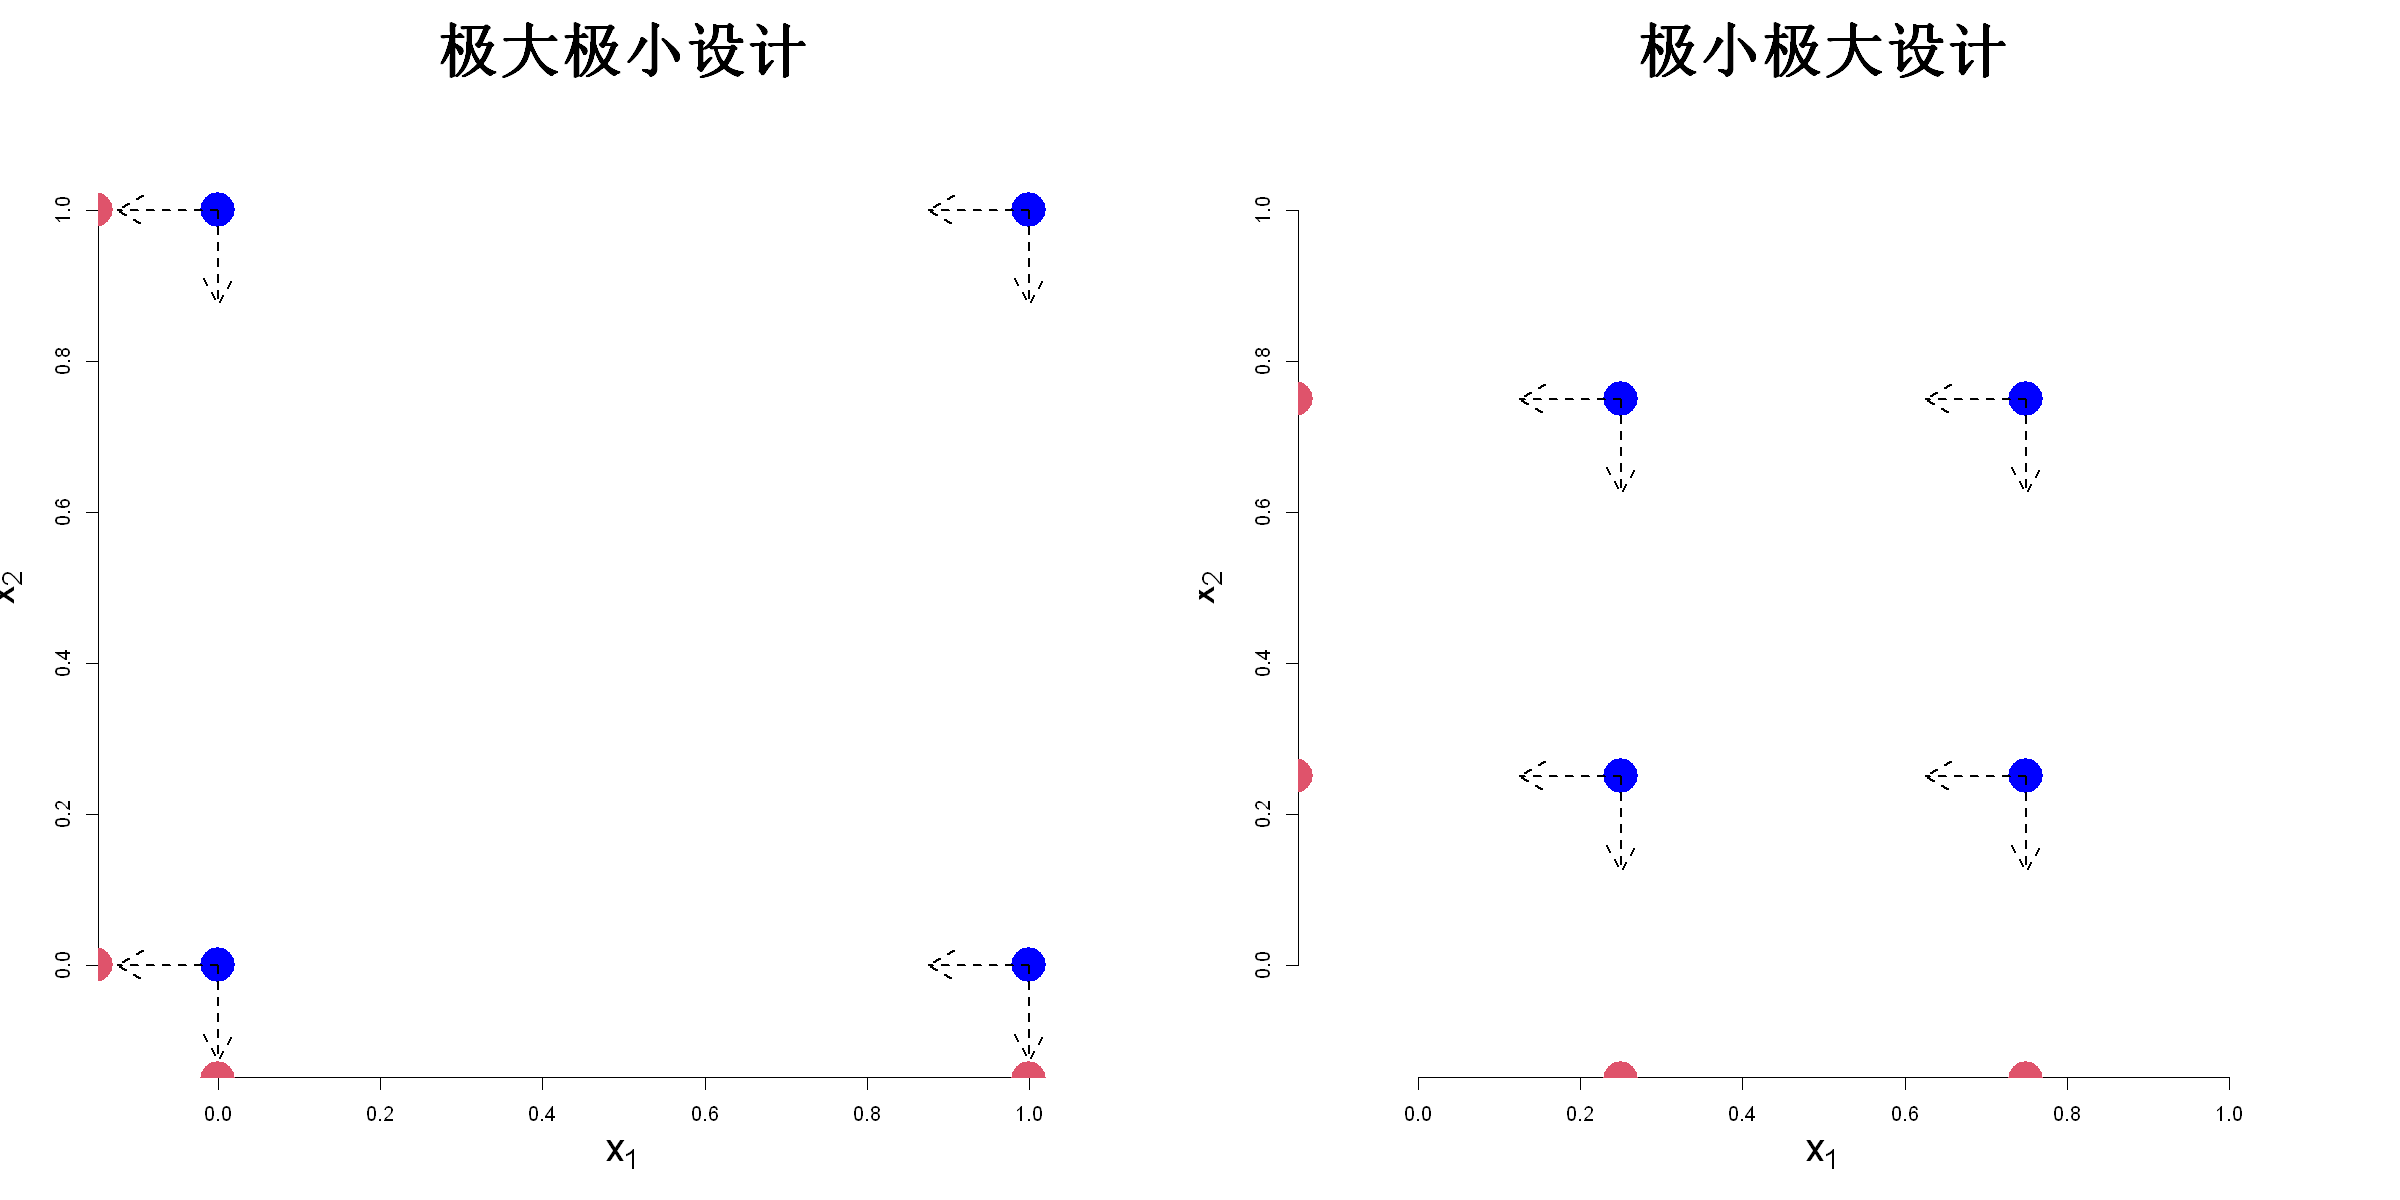
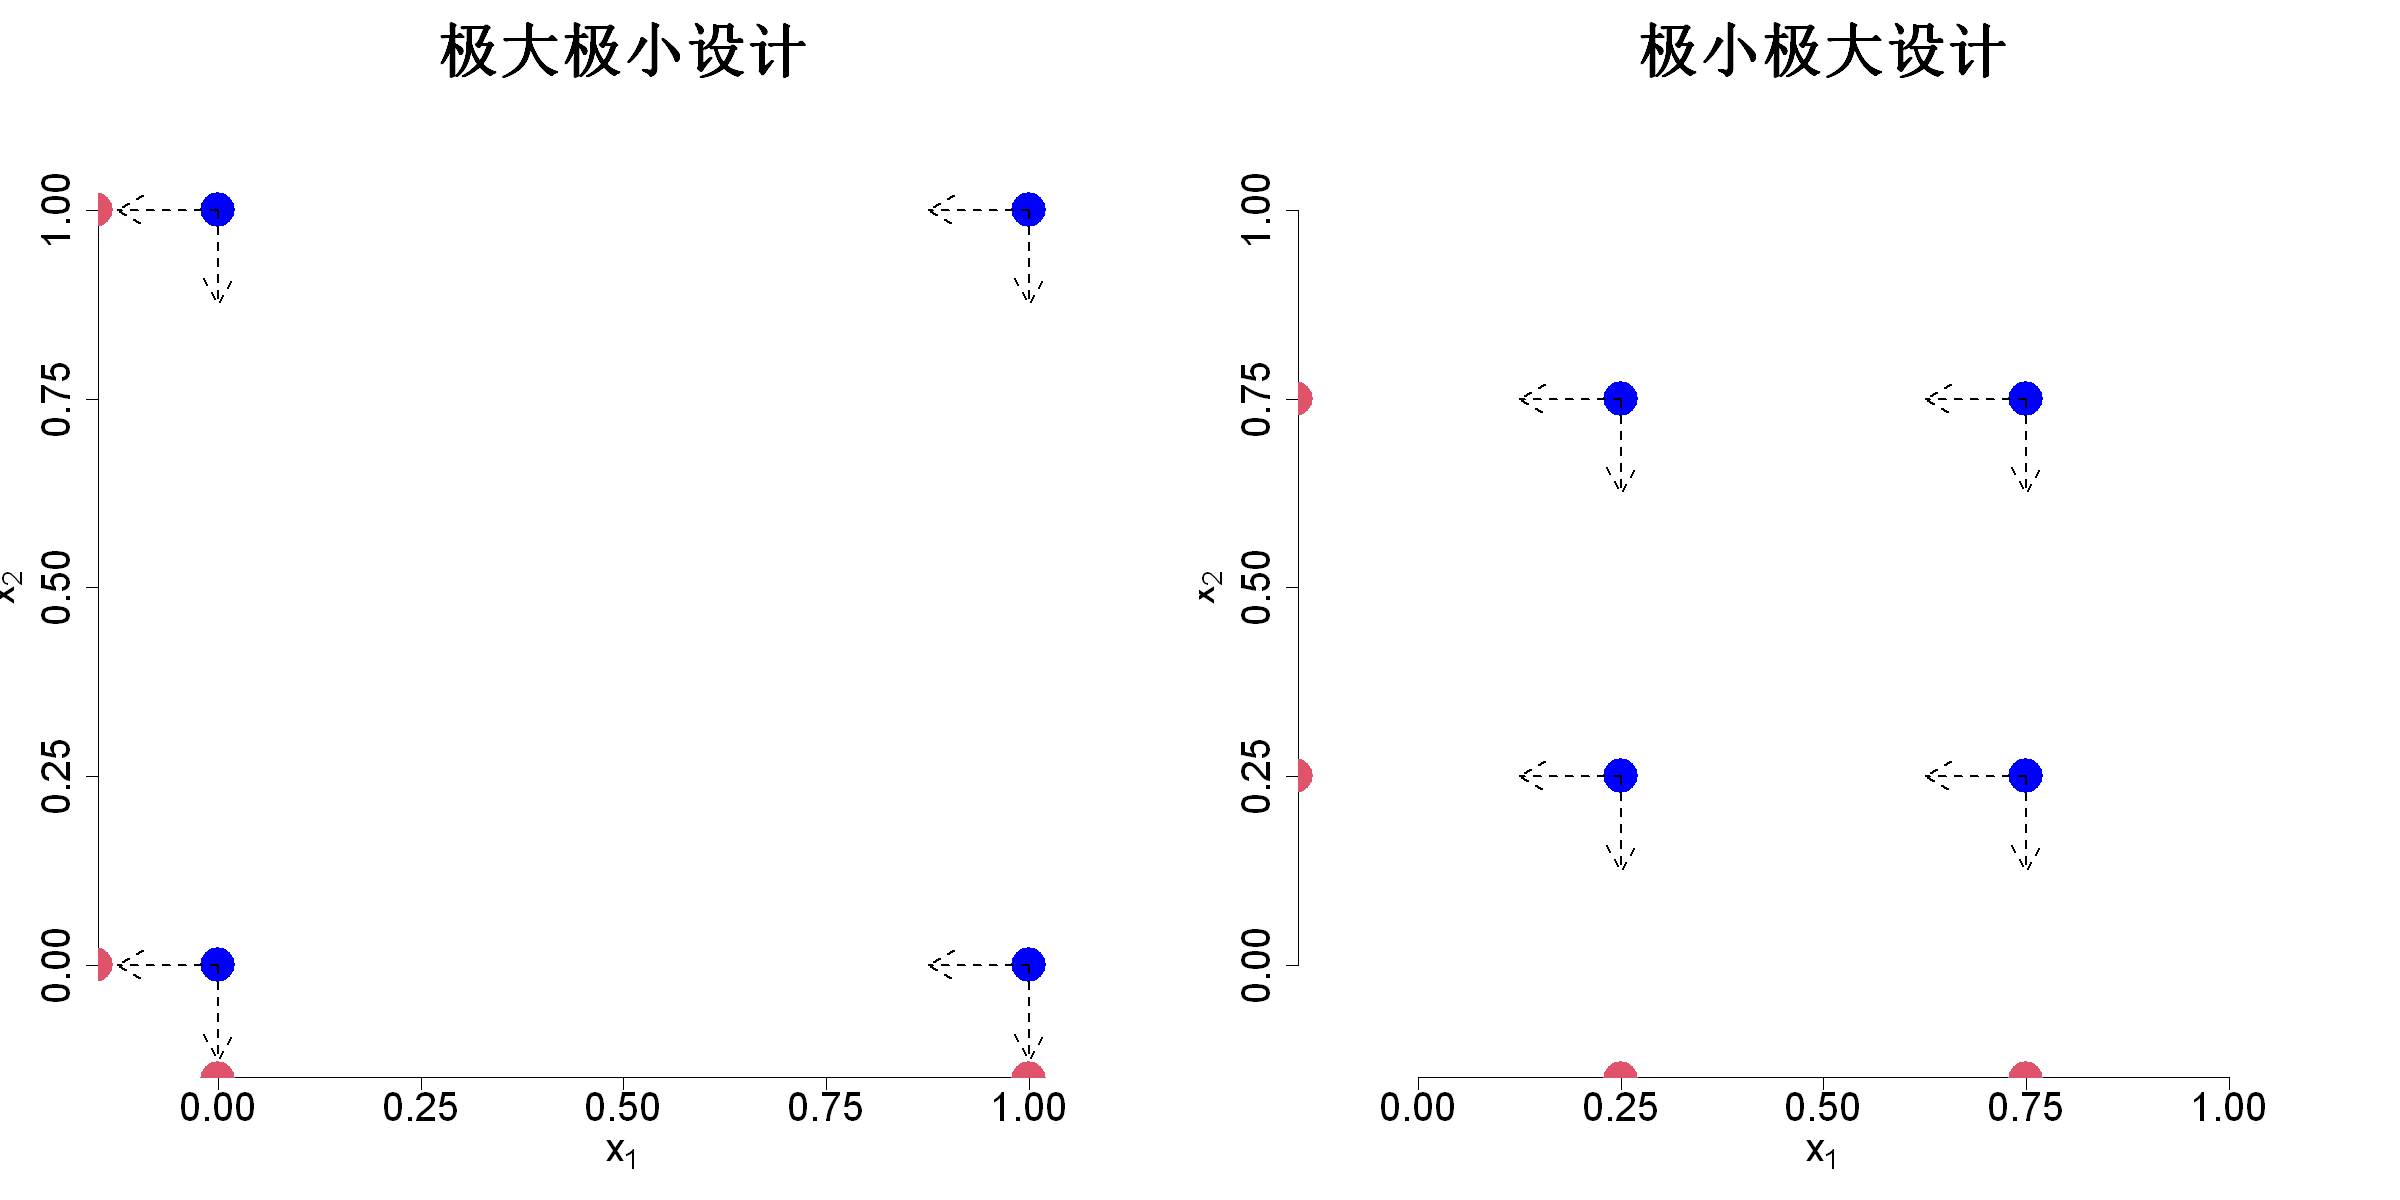
图 4.6 添加了合适刻度值的坐标轴

diff --git a/ED4DSE/02-notes/Ch04/4.6/4.6.md b/ED4DSE/02-notes/Ch04/4.6/4.6.md
@@ -30,7 +30,7 @@ $$
 (1,1)
 $$
 
-创建观测点矩阵 D。绘制 D 的散点图，其中点型为 16，大小为 4，不显示边框，颜色为 blue，x\y 轴范围均为 c(-.1,1.1)，x 轴标注为 expression(x[1])，y 轴标注为 expression(x[2])，大小为 2，标题为“极大极小设计”，大小为 3。叠加投影点，其中 x 轴上的投影点的横坐标与 D 的的横坐标相同，纵坐标为 -0.15，颜色为 2，点型为 16，大小为 4。加投影点，其中 y 轴上的投影点的纵坐标与 D 的的纵坐标相同，横坐标为 -0.15，颜色为 2，点型为 16，大小为 4。叠加箭头，其中箭头为
+创建观测点矩阵 D。绘制 D 的散点图，其中点型为 16，大小为 4，不显示边框，不显示坐标轴，颜色为 blue，x、y 轴范围均为 c(-.1,1.1)，x 轴标注为 expression(x[1])，y 轴标注为 expression(x[2])，大小为 2，标题为“极大极小设计”，大小为 3。叠加坐标轴，x、y 轴均为 $[0,1]$ 上的点，间隔 0.25，大小为 2。叠加投影点，其中 x 轴上的投影点的横坐标与 D 的的横坐标相同，纵坐标为 -0.15，颜色为 2，点型为 16，大小为 4。加投影点，其中 y 轴上的投影点的纵坐标与 D 的的纵坐标相同，横坐标为 -0.15，颜色为 2，点型为 16，大小为 4。叠加箭头，其中箭头为
 
 $$
 (0,0)\to(0,-0.125)
@@ -84,7 +84,7 @@ $$
 (0.75,0.75)
 $$
 
-创建观测点矩阵 D。绘制 D 的散点图，其中点型为 16，大小为 4，不显示边框，颜色为 blue，x\y 轴范围均为 c(-.1,1.1)，x 轴标注为 expression(x[1])，y 轴标注为 expression(x[2])，大小为 2，标题为“极小极大设计”，大小为 3。叠加投影点，其中 x 轴上的投影点的横坐标与 D 的的横坐标相同，纵坐标为 -0.15，颜色为 2，点型为 16，大小为 4。加投影点，其中 y 轴上的投影点的纵坐标与 D 的的纵坐标相同，横坐标为 -0.15，颜色为 2，点型为 16，大小为 4。叠加箭头，其中箭头为
+创建观测点矩阵 D。绘制 D 的散点图，其中点型为 16，大小为 4，不显示边框，颜色为 blue，x\y 轴范围均为 c(-.1,1.1)，x 轴标注为 expression(x[1])，y 轴标注为 expression(x[2])，大小为 2，标题为“极小极大设计”，大小为 3。叠加坐标轴，x、y 轴均为 $[0,1]$ 上的点，间隔 0.25，大小为 2。叠加投影点，其中 x 轴上的投影点的横坐标与 D 的的横坐标相同，纵坐标为 -0.15，颜色为 2，点型为 16，大小为 4。加投影点，其中 y 轴上的投影点的纵坐标与 D 的的纵坐标相同，横坐标为 -0.15，颜色为 2，点型为 16，大小为 4。叠加箭头，其中箭头为
 
 $$
 (0.25,0.25)\to(0.25,0.125)
@@ -125,7 +125,9 @@ $$
 options(repr.plot.width=20,repr.plot.height=10)
 par(mfrow=c(1,2))
 D=matrix(c(0,0,0,1,1,0,1,1),nrow=4,ncol=2,byrow=TRUE)
-plot(D,pch=16,cex=4,bty="n",col="blue",xlim=c(-.1,1.1),ylim=c(-.1,1.1),xlab=expression(x[1]),ylab=expression(x[2]),cex.lab=2,main="极大极小设计",cex.main=3)
+plot(D,pch=16,xaxt="n",yaxt="n",cex=4,bty="n",col="blue",xlim=c(-.1,1.1),ylim=c(-.1,1.1),xlab=expression(x[1]),ylab=expression(x[2]),cex.lab=2,main="极大极小设计",cex.main=3)
+axis(1,at=seq(0,1,by=.25),cex.axis=2)
+axis(2,at=seq(0,1,by=.25),cex.axis=2)
 points(cbind(D[,1],-.15),col=2,pch=16,cex=4)
 points(cbind(-.15,D[,2]),col=2,pch=16,cex=4)
 arrows(0,0,0,-.125,lwd=2,lty=2)
@@ -138,7 +140,9 @@ arrows(1,0,.875,0,lwd=2,lty=2)
 arrows(1,1,.875,1,lwd=2,lty=2)
 
 D=matrix(c(0.25,0.25,.25,.75,.75,.25,.75,.75),nrow=4,ncol=2,byrow=TRUE)
-plot(D,pch=16,cex=4,bty="n",col="blue",xlim=c(-.1,1.1),ylim=c(-.1,1.1),xlab=expression(x[1]),ylab=expression(x[2]),cex.lab=2,main="极小极大设计",cex.main=3)
+plot(D,pch=16,xaxt="n",yaxt="n",cex=4,bty="n",col="blue",xlim=c(-.1,1.1),ylim=c(-.1,1.1),xlab=expression(x[1]),ylab=expression(x[2]),cex.lab=2,main="极小极大设计",cex.main=3)
+axis(1,at=seq(0,1,by=.25),cex.axis=2)
+axis(2,at=seq(0,1,by=.25),cex.axis=2)
 points(cbind(D[,1],-.15),col=2,pch=16,cex=4)
 points(cbind(-.15,D[,2]),col=2,pch=16,cex=4)
 arrows(.25,.25,.25,.125,lwd=2,lty=2)
